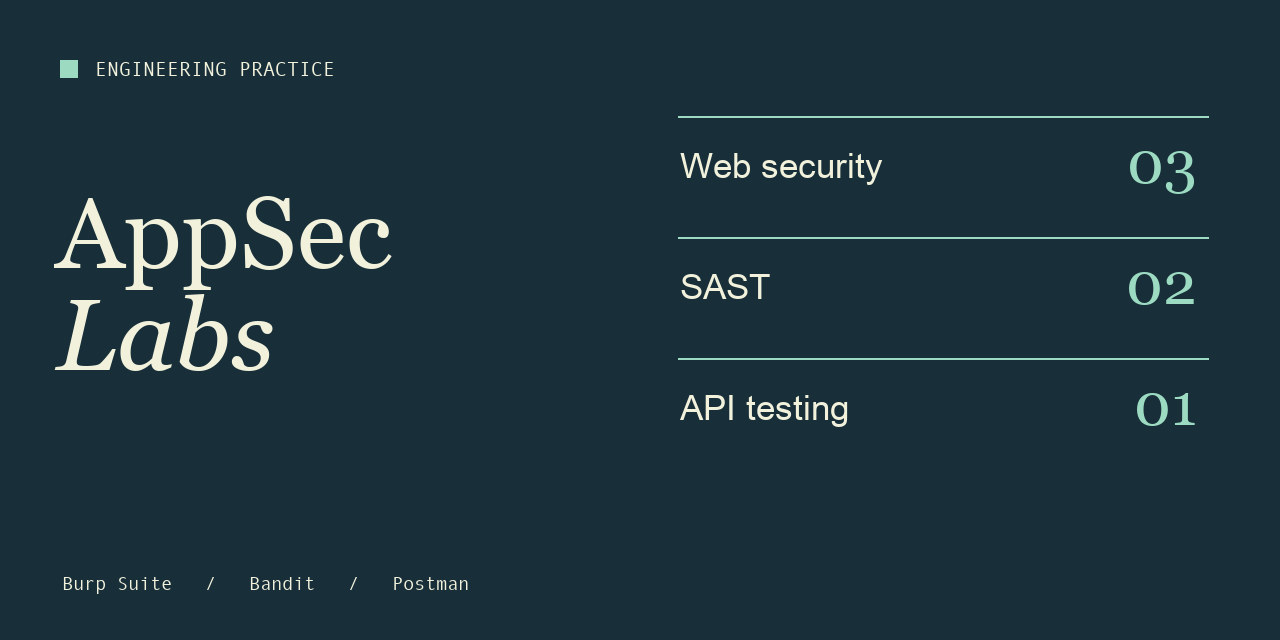
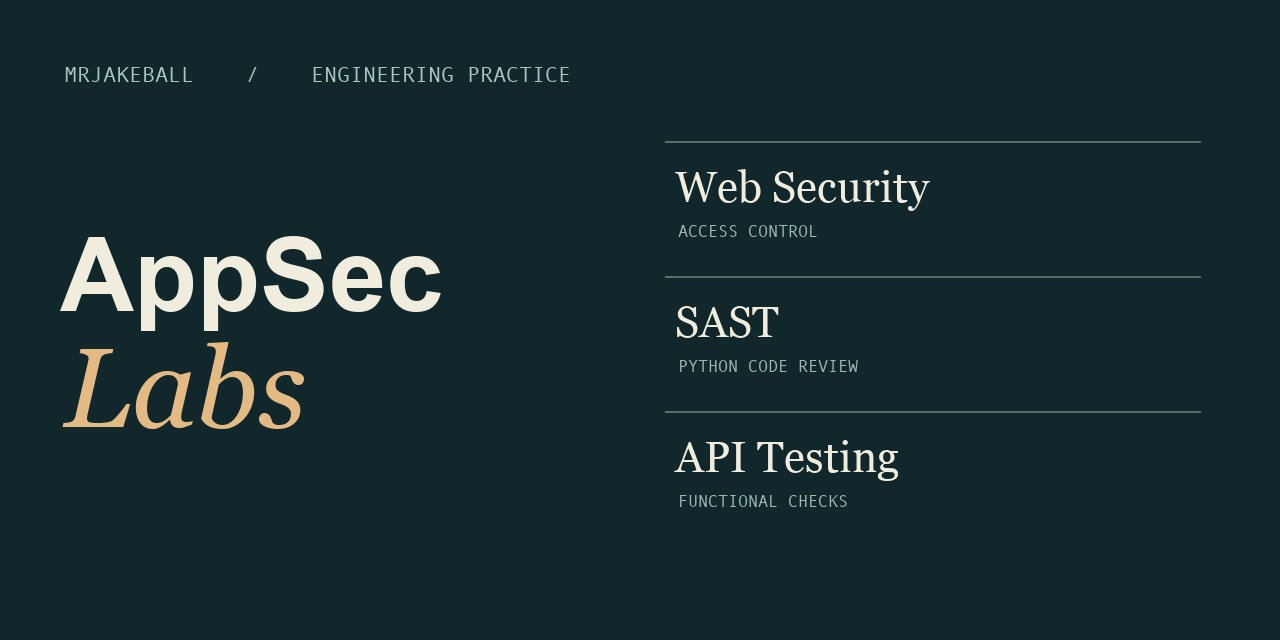
docs: organize practice by subject and replace lab counters

diff --git a/README.md b/README.md
@@ -1,10 +1,14 @@
-**RU** · [EN](README_EN.md)　 /　 [Профиль](https://github.com/mrjakeball) · [Каталог проектов](https://github.com/mrjakeball/portfolio)
+<p>
+<a href="README.md"><img src="https://raw.githubusercontent.com/mrjakeball/mrjakeball/main/assets/ui/ru-on.svg" height="32" alt="Русский · выбран"></a>
+<a href="README_EN.md"><img src="https://raw.githubusercontent.com/mrjakeball/mrjakeball/main/assets/ui/en-off.svg" height="32" alt="English"></a>
+<a href="https://github.com/mrjakeball/portfolio"><img src="https://raw.githubusercontent.com/mrjakeball/mrjakeball/main/assets/ui/catalog-ru.svg" height="32" alt="Каталог проектов"></a>
+</p>
 
 # AppSec Labs
 
-Шесть учебных работ по контролю доступа, статическому анализу Python и функциональным проверкам REST API. У каждой есть отчёт на двух языках и исходные материалы.
+Изучаю контроль доступа, статический анализ Python и функциональные проверки REST API. В отчётах собраны наблюдения, исходные материалы и выводы по каждому сценарию.
 
-![Web Security · 3 / SAST · 2 / API Testing · 1](assets/social-preview.jpg)
+![Web Security · SAST · API Testing](assets/social-preview.jpg)
 
 ## Web Security
 

diff --git a/portswigger/03-idor-user-profile/README_EN.md b/portswigger/03-idor-user-profile/README_EN.md
@@ -1,4 +1,10 @@
-[RU](README.md) · **EN**　 /　 [AppSec Labs](../../README_EN.md)　 /　 Web Security
+<p>
+<a href="README.md"><img src="https://raw.githubusercontent.com/mrjakeball/mrjakeball/main/assets/ui/ru-off.svg" height="32" alt="Русский"></a>
+<a href="README_EN.md"><img src="https://raw.githubusercontent.com/mrjakeball/mrjakeball/main/assets/ui/en-on.svg" height="32" alt="English · selected"></a>
+<a href="https://github.com/mrjakeball/portfolio/blob/main/README_EN.md"><img src="https://raw.githubusercontent.com/mrjakeball/mrjakeball/main/assets/ui/catalog-en.svg" height="32" alt="Project catalogue"></a>
+</p>
+
+[AppSec Labs](../../README_EN.md)　 /　 Web Security
 
 # IDOR · User Profile
 
@@ -142,4 +148,4 @@ Changing the HTTP method from GET to POST would not fix the vulnerability. Prope
 
 *All testing was performed exclusively within the authorized PortSwigger Web Security Academy environment. No real user data or secrets are published in this report.*
 
-[All six reports](../../README_EN.md) · [Profile](https://github.com/mrjakeball/mrjakeball/blob/main/README_EN.md) · [Project catalogue](https://github.com/mrjakeball/portfolio/blob/main/README_EN.md)
+[Report catalogue](../../README_EN.md) · [Profile](https://github.com/mrjakeball/mrjakeball/blob/main/README_EN.md) · [Project catalogue](https://github.com/mrjakeball/portfolio/blob/main/README_EN.md)

diff --git a/sast/02-command-injection/README.md b/sast/02-command-injection/README.md
@@ -1,4 +1,10 @@
-**RU** · [EN](README_EN.md)　 /　 [AppSec Labs](../../README.md)　 /　 SAST
+<p>
+<a href="README.md"><img src="https://raw.githubusercontent.com/mrjakeball/mrjakeball/main/assets/ui/ru-on.svg" height="32" alt="Русский · выбран"></a>
+<a href="README_EN.md"><img src="https://raw.githubusercontent.com/mrjakeball/mrjakeball/main/assets/ui/en-off.svg" height="32" alt="English"></a>
+<a href="https://github.com/mrjakeball/portfolio"><img src="https://raw.githubusercontent.com/mrjakeball/mrjakeball/main/assets/ui/catalog-ru.svg" height="32" alt="Каталог проектов"></a>
+</p>
+
+[AppSec Labs](../../README.md)　 /　 SAST
 
 # OS Command Injection
 
@@ -192,4 +198,4 @@ Semgrep обнаружил вызов `subprocess.run()` с `shell=True` в уя
 
 *Лабораторная работа выполнена исключительно в образовательных целях на собственном локальном приложении.*
 
-[Все шесть отчётов](../../README.md) · [Профиль](https://github.com/mrjakeball) · [Каталог проектов](https://github.com/mrjakeball/portfolio)
+[Каталог отчётов](../../README.md) · [Профиль](https://github.com/mrjakeball) · [Каталог проектов](https://github.com/mrjakeball/portfolio)

diff --git a/portswigger/01-access-control/README.md b/portswigger/01-access-control/README.md
@@ -1,4 +1,10 @@
-**RU** · [EN](README_EN.md)　 /　 [AppSec Labs](../../README.md)　 /　 Web Security
+<p>
+<a href="README.md"><img src="https://raw.githubusercontent.com/mrjakeball/mrjakeball/main/assets/ui/ru-on.svg" height="32" alt="Русский · выбран"></a>
+<a href="README_EN.md"><img src="https://raw.githubusercontent.com/mrjakeball/mrjakeball/main/assets/ui/en-off.svg" height="32" alt="English"></a>
+<a href="https://github.com/mrjakeball/portfolio"><img src="https://raw.githubusercontent.com/mrjakeball/mrjakeball/main/assets/ui/catalog-ru.svg" height="32" alt="Каталог проектов"></a>
+</p>
+
+[AppSec Labs](../../README.md)　 /　 Web Security
 
 # Unprotected Admin Functionality
 
@@ -139,4 +145,4 @@ PortSwigger Web Security Academy · Apprentice · Burp Suite Community
 
 *Все действия выполнялись исключительно в разрешённой учебной среде PortSwigger Web Security Academy.*
 
-[Все шесть отчётов](../../README.md) · [Профиль](https://github.com/mrjakeball) · [Каталог проектов](https://github.com/mrjakeball/portfolio)
+[Каталог отчётов](../../README.md) · [Профиль](https://github.com/mrjakeball) · [Каталог проектов](https://github.com/mrjakeball/portfolio)

diff --git a/portswigger/02-unpredictable-admin-url/README_EN.md b/portswigger/02-unpredictable-admin-url/README_EN.md
@@ -1,4 +1,10 @@
-[RU](README.md) · **EN**　 /　 [AppSec Labs](../../README_EN.md)　 /　 Web Security
+<p>
+<a href="README.md"><img src="https://raw.githubusercontent.com/mrjakeball/mrjakeball/main/assets/ui/ru-off.svg" height="32" alt="Русский"></a>
+<a href="README_EN.md"><img src="https://raw.githubusercontent.com/mrjakeball/mrjakeball/main/assets/ui/en-on.svg" height="32" alt="English · selected"></a>
+<a href="https://github.com/mrjakeball/portfolio/blob/main/README_EN.md"><img src="https://raw.githubusercontent.com/mrjakeball/mrjakeball/main/assets/ui/catalog-en.svg" height="32" alt="Project catalogue"></a>
+</p>
+
+[AppSec Labs](../../README_EN.md)　 /　 Web Security
 
 # Unpredictable Admin URL
 
@@ -132,4 +138,4 @@ Within the authorized training environment, deleted the test user `carlos`.
 
 *All testing was performed exclusively within the authorized PortSwigger Web Security Academy environment.*
 
-[All six reports](../../README_EN.md) · [Profile](https://github.com/mrjakeball/mrjakeball/blob/main/README_EN.md) · [Project catalogue](https://github.com/mrjakeball/portfolio/blob/main/README_EN.md)
+[Report catalogue](../../README_EN.md) · [Profile](https://github.com/mrjakeball/mrjakeball/blob/main/README_EN.md) · [Project catalogue](https://github.com/mrjakeball/portfolio/blob/main/README_EN.md)

diff --git a/portswigger/02-unpredictable-admin-url/README.md b/portswigger/02-unpredictable-admin-url/README.md
@@ -1,4 +1,10 @@
-**RU** · [EN](README_EN.md)　 /　 [AppSec Labs](../../README.md)　 /　 Web Security
+<p>
+<a href="README.md"><img src="https://raw.githubusercontent.com/mrjakeball/mrjakeball/main/assets/ui/ru-on.svg" height="32" alt="Русский · выбран"></a>
+<a href="README_EN.md"><img src="https://raw.githubusercontent.com/mrjakeball/mrjakeball/main/assets/ui/en-off.svg" height="32" alt="English"></a>
+<a href="https://github.com/mrjakeball/portfolio"><img src="https://raw.githubusercontent.com/mrjakeball/mrjakeball/main/assets/ui/catalog-ru.svg" height="32" alt="Каталог проектов"></a>
+</p>
+
+[AppSec Labs](../../README.md)　 /　 Web Security
 
 # Unpredictable Admin URL
 
@@ -132,4 +138,4 @@ PortSwigger Web Security Academy · Apprentice · Burp Suite Community
 
 *Все действия выполнялись исключительно в разрешённой учебной среде PortSwigger Web Security Academy.*
 
-[Все шесть отчётов](../../README.md) · [Профиль](https://github.com/mrjakeball) · [Каталог проектов](https://github.com/mrjakeball/portfolio)
+[Каталог отчётов](../../README.md) · [Профиль](https://github.com/mrjakeball) · [Каталог проектов](https://github.com/mrjakeball/portfolio)

diff --git a/api-testing/01-rest-api-fundamentals/README_EN.md b/api-testing/01-rest-api-fundamentals/README_EN.md
@@ -1,4 +1,10 @@
-[RU](README.md) · **EN**　 /　 [AppSec Labs](../../README_EN.md)　 /　 API Testing
+<p>
+<a href="README.md"><img src="https://raw.githubusercontent.com/mrjakeball/mrjakeball/main/assets/ui/ru-off.svg" height="32" alt="Русский"></a>
+<a href="README_EN.md"><img src="https://raw.githubusercontent.com/mrjakeball/mrjakeball/main/assets/ui/en-on.svg" height="32" alt="English · selected"></a>
+<a href="https://github.com/mrjakeball/portfolio/blob/main/README_EN.md"><img src="https://raw.githubusercontent.com/mrjakeball/mrjakeball/main/assets/ui/catalog-en.svg" height="32" alt="Project catalogue"></a>
+</p>
+
+[AppSec Labs](../../README_EN.md)　 /　 API Testing
 
 # REST API Fundamentals
 
@@ -273,4 +279,4 @@ A successful collection run demonstrates compliance with the tested functional e
 
 *This lab was conducted solely for educational purposes using a public demonstration API.*
 
-[All six reports](../../README_EN.md) · [Profile](https://github.com/mrjakeball/mrjakeball/blob/main/README_EN.md) · [Project catalogue](https://github.com/mrjakeball/portfolio/blob/main/README_EN.md)
+[Report catalogue](../../README_EN.md) · [Profile](https://github.com/mrjakeball/mrjakeball/blob/main/README_EN.md) · [Project catalogue](https://github.com/mrjakeball/portfolio/blob/main/README_EN.md)

diff --git a/sast/02-command-injection/README_EN.md b/sast/02-command-injection/README_EN.md
@@ -1,4 +1,10 @@
-[RU](README.md) · **EN**　 /　 [AppSec Labs](../../README_EN.md)　 /　 SAST
+<p>
+<a href="README.md"><img src="https://raw.githubusercontent.com/mrjakeball/mrjakeball/main/assets/ui/ru-off.svg" height="32" alt="Русский"></a>
+<a href="README_EN.md"><img src="https://raw.githubusercontent.com/mrjakeball/mrjakeball/main/assets/ui/en-on.svg" height="32" alt="English · selected"></a>
+<a href="https://github.com/mrjakeball/portfolio/blob/main/README_EN.md"><img src="https://raw.githubusercontent.com/mrjakeball/mrjakeball/main/assets/ui/catalog-en.svg" height="32" alt="Project catalogue"></a>
+</p>
+
+[AppSec Labs](../../README_EN.md)　 /　 SAST
 
 # OS Command Injection
 
@@ -194,4 +200,4 @@ Follow-up testing confirmed that the previous injection technique no longer work
 
 *This lab was conducted solely for educational purposes against a self-developed local application.*
 
-[All six reports](../../README_EN.md) · [Profile](https://github.com/mrjakeball/mrjakeball/blob/main/README_EN.md) · [Project catalogue](https://github.com/mrjakeball/portfolio/blob/main/README_EN.md)
+[Report catalogue](../../README_EN.md) · [Profile](https://github.com/mrjakeball/mrjakeball/blob/main/README_EN.md) · [Project catalogue](https://github.com/mrjakeball/portfolio/blob/main/README_EN.md)

diff --git a/portswigger/01-access-control/README_EN.md b/portswigger/01-access-control/README_EN.md
@@ -1,4 +1,10 @@
-[RU](README.md) · **EN**　 /　 [AppSec Labs](../../README_EN.md)　 /　 Web Security
+<p>
+<a href="README.md"><img src="https://raw.githubusercontent.com/mrjakeball/mrjakeball/main/assets/ui/ru-off.svg" height="32" alt="Русский"></a>
+<a href="README_EN.md"><img src="https://raw.githubusercontent.com/mrjakeball/mrjakeball/main/assets/ui/en-on.svg" height="32" alt="English · selected"></a>
+<a href="https://github.com/mrjakeball/portfolio/blob/main/README_EN.md"><img src="https://raw.githubusercontent.com/mrjakeball/mrjakeball/main/assets/ui/catalog-en.svg" height="32" alt="Project catalogue"></a>
+</p>
+
+[AppSec Labs](../../README_EN.md)　 /　 Web Security
 
 # Unprotected Admin Functionality
 
@@ -139,4 +145,4 @@ Practical skills gained:
 
 *All testing was performed exclusively within the authorized PortSwigger Web Security Academy environment.*
 
-[All six reports](../../README_EN.md) · [Profile](https://github.com/mrjakeball/mrjakeball/blob/main/README_EN.md) · [Project catalogue](https://github.com/mrjakeball/portfolio/blob/main/README_EN.md)
+[Report catalogue](../../README_EN.md) · [Profile](https://github.com/mrjakeball/mrjakeball/blob/main/README_EN.md) · [Project catalogue](https://github.com/mrjakeball/portfolio/blob/main/README_EN.md)

diff --git a/api-testing/01-rest-api-fundamentals/README.md b/api-testing/01-rest-api-fundamentals/README.md
@@ -1,4 +1,10 @@
-**RU** · [EN](README_EN.md)　 /　 [AppSec Labs](../../README.md)　 /　 API Testing
+<p>
+<a href="README.md"><img src="https://raw.githubusercontent.com/mrjakeball/mrjakeball/main/assets/ui/ru-on.svg" height="32" alt="Русский · выбран"></a>
+<a href="README_EN.md"><img src="https://raw.githubusercontent.com/mrjakeball/mrjakeball/main/assets/ui/en-off.svg" height="32" alt="English"></a>
+<a href="https://github.com/mrjakeball/portfolio"><img src="https://raw.githubusercontent.com/mrjakeball/mrjakeball/main/assets/ui/catalog-ru.svg" height="32" alt="Каталог проектов"></a>
+</p>
+
+[AppSec Labs](../../README.md)　 /　 API Testing
 
 # REST API Fundamentals
 
@@ -273,4 +279,4 @@
 
 *Работа выполнена исключительно в образовательных целях с использованием публичного демонстрационного API.*
 
-[Все шесть отчётов](../../README.md) · [Профиль](https://github.com/mrjakeball) · [Каталог проектов](https://github.com/mrjakeball/portfolio)
+[Каталог отчётов](../../README.md) · [Профиль](https://github.com/mrjakeball) · [Каталог проектов](https://github.com/mrjakeball/portfolio)

diff --git a/sast/01-python-bandit/README_EN.md b/sast/01-python-bandit/README_EN.md
@@ -1,4 +1,10 @@
-[RU](README.md) · **EN**　 /　 [AppSec Labs](../../README_EN.md)　 /　 SAST
+<p>
+<a href="README.md"><img src="https://raw.githubusercontent.com/mrjakeball/mrjakeball/main/assets/ui/ru-off.svg" height="32" alt="Русский"></a>
+<a href="README_EN.md"><img src="https://raw.githubusercontent.com/mrjakeball/mrjakeball/main/assets/ui/en-on.svg" height="32" alt="English · selected"></a>
+<a href="https://github.com/mrjakeball/portfolio/blob/main/README_EN.md"><img src="https://raw.githubusercontent.com/mrjakeball/mrjakeball/main/assets/ui/catalog-en.svg" height="32" alt="Project catalogue"></a>
+</p>
+
+[AppSec Labs](../../README_EN.md)　 /　 SAST
 
 # Python eval() Security
 
@@ -85,4 +91,4 @@ A key lesson is that zero scanner findings do not prove an application is comple
 
 *This project is intended for educational purposes only.*
 
-[All six reports](../../README_EN.md) · [Profile](https://github.com/mrjakeball/mrjakeball/blob/main/README_EN.md) · [Project catalogue](https://github.com/mrjakeball/portfolio/blob/main/README_EN.md)
+[Report catalogue](../../README_EN.md) · [Profile](https://github.com/mrjakeball/mrjakeball/blob/main/README_EN.md) · [Project catalogue](https://github.com/mrjakeball/portfolio/blob/main/README_EN.md)
